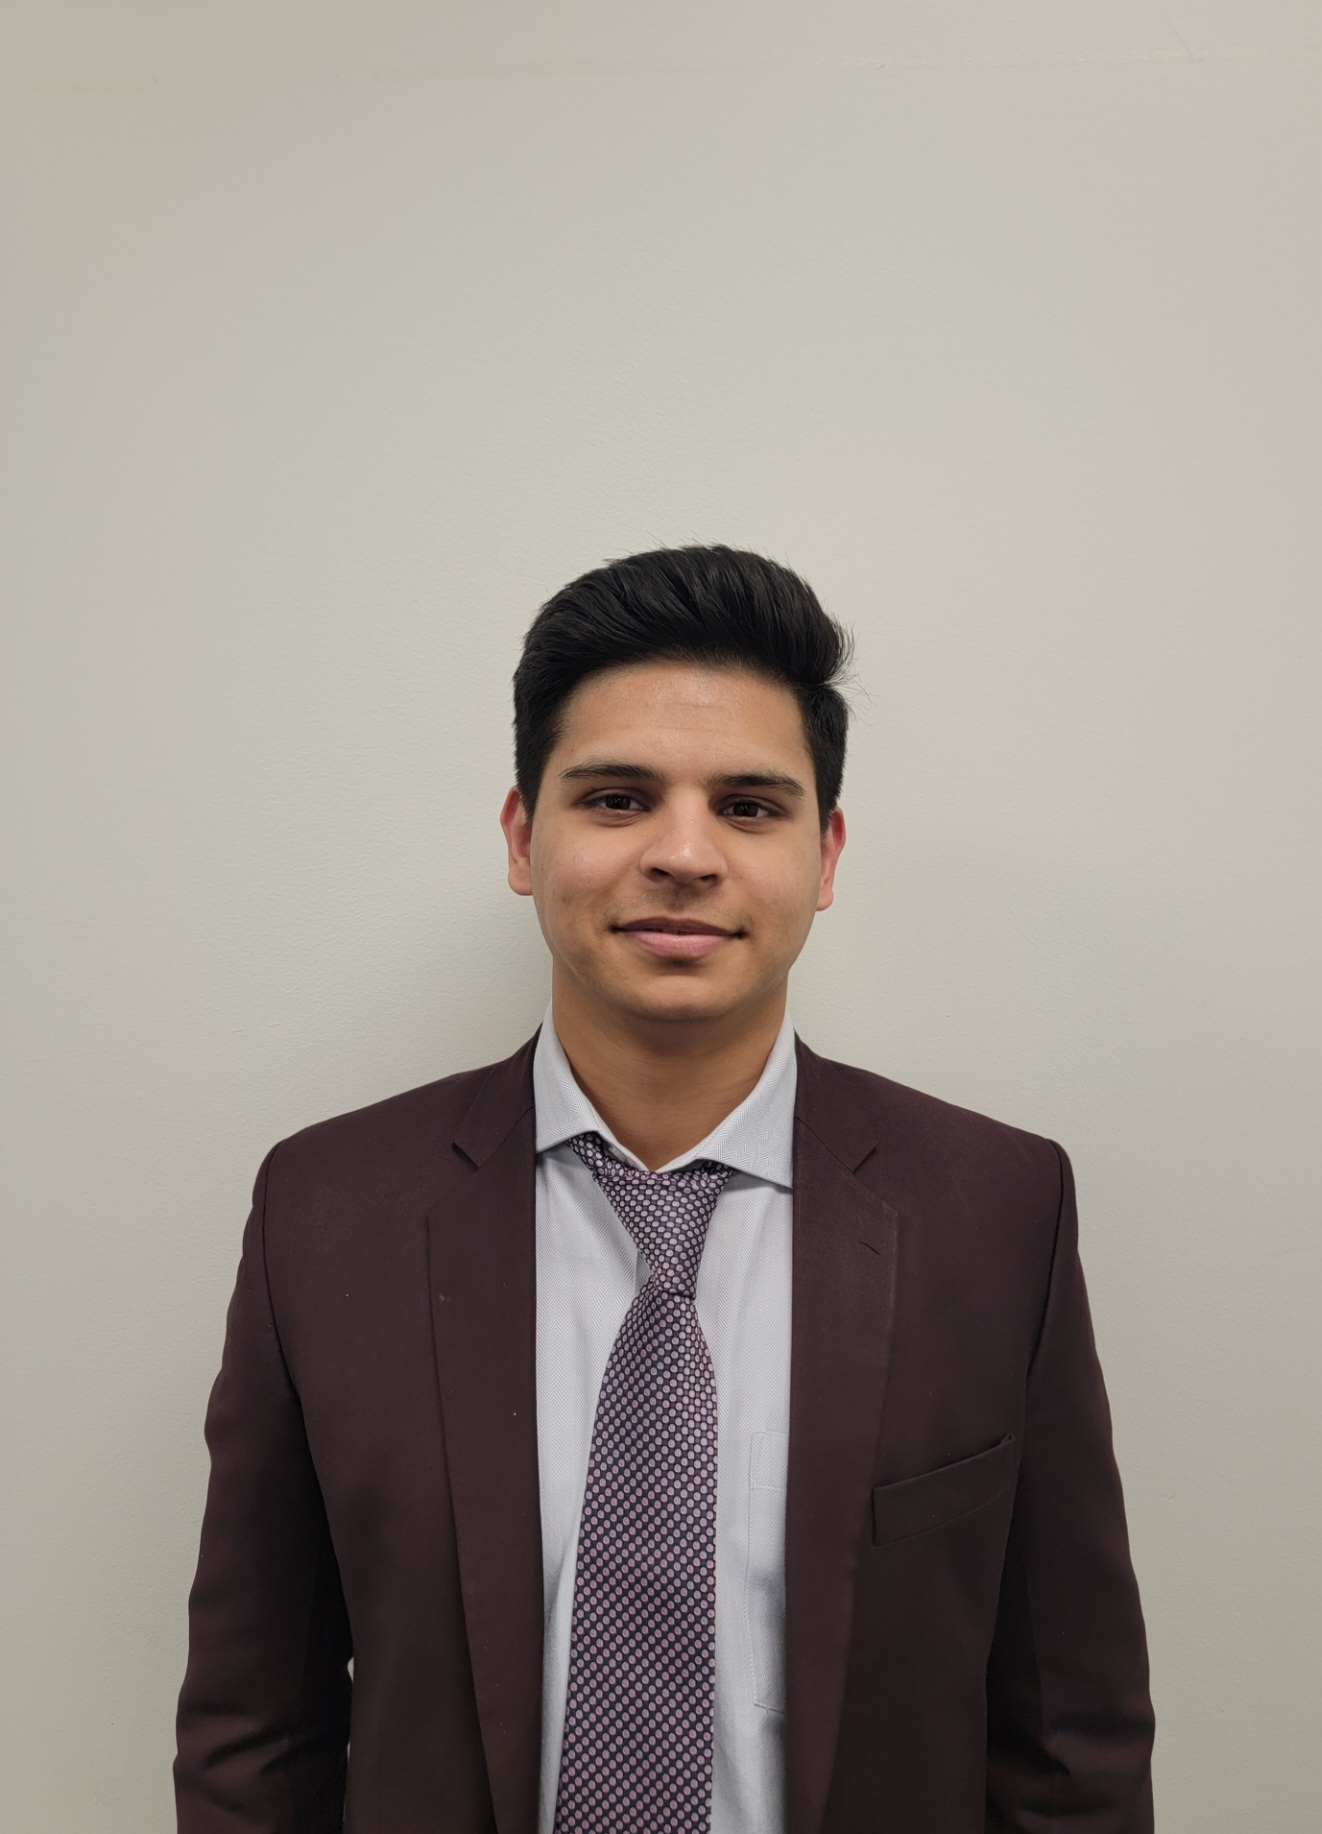
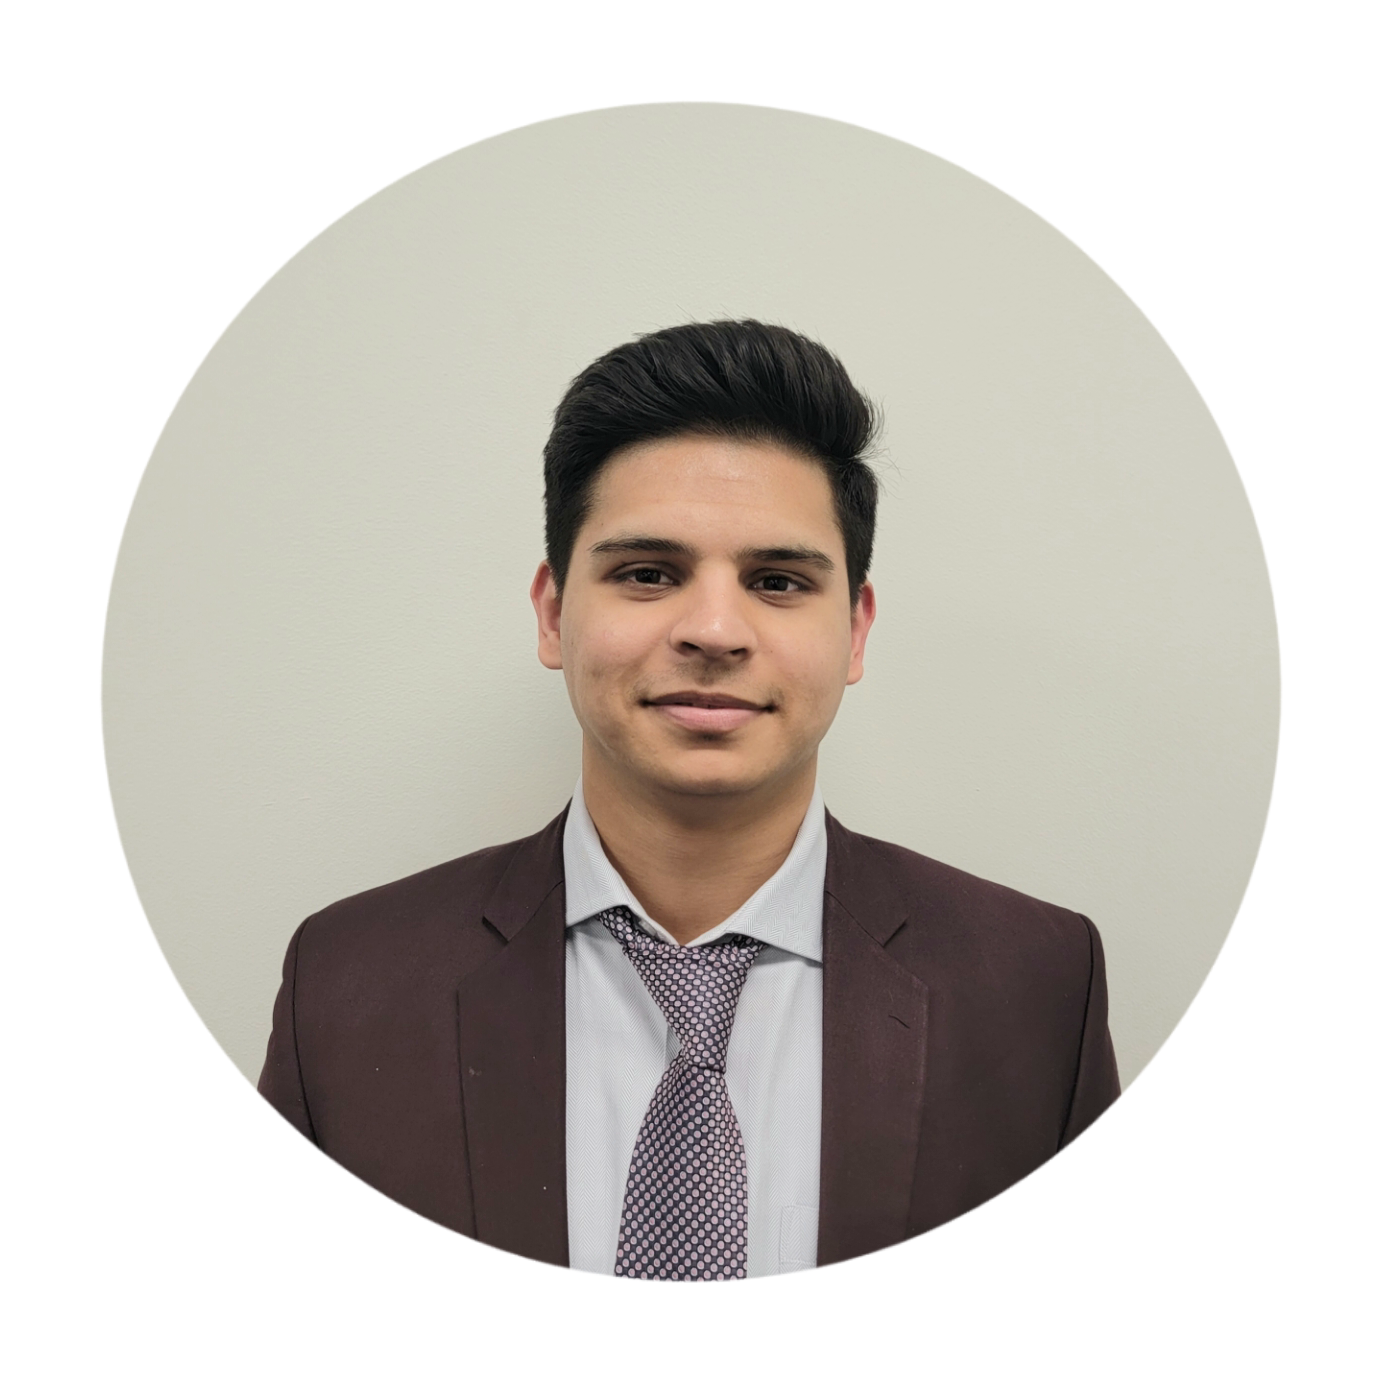
updated all errors

diff --git a/index.html b/index.html
@@ -38,16 +38,18 @@
     </nav>
     <section id="profile">
       <div class="section__pic-container">
-        <img src="./assets/profile-pic.png" alt="Syed Rafi profile picture" class="profile-pic" />
+        <img src="./assets/profile-pic.png" alt="John Doe profile picture" />
       </div>
       <div class="section__text">
         <p class="section__text__p1">Hello, I'm</p>
         <h1 class="title">Syed Rafi</h1>
-        <p class="section__text__p2">Web/software Developer</p>
+        <p class="section__text__p2">Web/Software Developer</p>
         <div class="btn-container">
-          <button class="btn btn-color-2" onclick="window.open('./assets/Syed_Rafi_sd_Resume.pdf')">
+          <button
+            class="btn btn-color-2"
+          class="btn btn-color-2" onclick="window.open('./assets/Syed_Rafi_sd_Resume.pdf')">
             Download CV
-          </button>          
+          </class=>          
           <button class="btn btn-color-1" onclick="location.href='./#contact'">
             Contact Info
           </button>
@@ -107,10 +109,10 @@
               completed both my high school diploma and bachelor's degree. 
               Currently I have been in Sales/ customer Service for nearly 
               seven years. In my free time, I enjoy spending time with 
-              friends, nieces, and nephews. I also enjoy all outdoor activities
-               and snowboarding during the fall. I have a passion for web development, 
-              as building and deploying websites/softwares/apps is very 
-              fascinating to me.
+              friends and family, and occassional bowling. I also enjoy 
+              all outdoor activities and snowboarding during the fall. 
+              I have a passion for web development, as building and deploying 
+              websites/softwares/apps is very fascinating to me.
             </p>
           </div>
         </div>

diff --git a/style.css b/style.css
@@ -169,16 +169,6 @@ section {
   height: 80vh;
 }
 
-.profile-pic {
-  width: 250px; /* Adjust the size as needed */
-  height: 250px;
-  border-radius: 200%;
-  display: block;
-  margin-left: auto;
-  margin-right: auto;
-  object-fit: cover;
-}
-
 .section__pic-container {
   display: flex;
   height: 400px;
